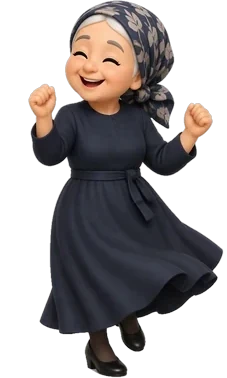
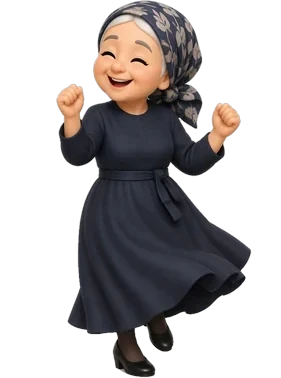
v128: grandma dances real steps too
Claude-Session: https://claude.ai/code/session_01ABvEC9i7oWek9Z9TUcU2qQ

Changed region(s): [[0.1233, 0.0, 0.9868, 1.0], [0.5242, 0.9603, 0.5859, 1.0]]

diff --git a/sw.js b/sw.js
@@ -10,7 +10,7 @@
  * When changing this file, bump CACHE so old caches are cleaned up.
  */
 
-const CACHE = 'dreidel-v127';
+const CACHE = 'dreidel-v128';
 const FALLBACK = './index.html';
 // Each picture is listed once, as .webp. The .png / .jpg twins exist only for a browser that cannot
 // show webp; precaching both made every install download the pictures twice (about 1.2 MB extra).
@@ -19,7 +19,7 @@ const STATIC = [
   './index.html', './manifest.json', './icon-192.png', './icon-512.png', './apple-touch-icon.png',
   './dreidel.webp', './d3-face.webp', './d3-tip.webp', './d3-handle.webp', './bg-table.webp',
   './bg-table-portrait.webp', './coin.webp', './pile.webp', './trivia.json',
-  './dancer.webp', './dancer_big.webp', './hasid_pose1.webp', './hasid_pose2.webp', './hasid_pose3.webp', './hasid_side.webp', './hasid_back.webp', './dancer_boy.webp', './dancer_boy_a.webp', './dancer_boy_c.webp', './dancer_girl_a.webp', './dancer_girl_b.webp', './dancer_grandpa_a.webp', './dancer_grandpa_b.webp', './dancer_boy_side.webp', './dancer_boy_back.webp', './dancer_girl_side.webp', './dancer_girl_back.webp', './dancer_grandpa_side.webp', './dancer_grandpa_back.webp', './dancer_grandma_side.webp', './dancer_grandma_back.webp', './dancer_girl.webp', './dancer_grandpa.webp', './dancer_grandma.webp', './bg-table-nod.webp', './bg-table-portrait-nod.webp', './dancers_old.webp', './cstack1.webp', './cstack2.webp', './cstack3.webp', './cstack4.webp', './cstack5.webp', './cstack6.webp', './cstack7.webp', './cstack8.webp', './cstack9.webp', './cstack10.webp', './cstack11.webp', './cstack12.webp',
+  './dancer.webp', './dancer_big.webp', './hasid_pose1.webp', './hasid_pose2.webp', './hasid_pose3.webp', './hasid_side.webp', './hasid_back.webp', './dancer_boy.webp', './dancer_boy_a.webp', './dancer_boy_c.webp', './dancer_girl_a.webp', './dancer_girl_b.webp', './dancer_grandpa_a.webp', './dancer_grandpa_b.webp', './dancer_grandma_a.webp', './dancer_grandma_b.webp', './dancer_boy_side.webp', './dancer_boy_back.webp', './dancer_girl_side.webp', './dancer_girl_back.webp', './dancer_grandpa_side.webp', './dancer_grandpa_back.webp', './dancer_grandma_side.webp', './dancer_grandma_back.webp', './dancer_girl.webp', './dancer_grandpa.webp', './dancer_grandma.webp', './bg-table-nod.webp', './bg-table-portrait-nod.webp', './dancers_old.webp', './cstack1.webp', './cstack2.webp', './cstack3.webp', './cstack4.webp', './cstack5.webp', './cstack6.webp', './cstack7.webp', './cstack8.webp', './cstack9.webp', './cstack10.webp', './cstack11.webp', './cstack12.webp',
   './trivia-editor.html'
 ];
 

diff --git a/index.html b/index.html
@@ -1060,7 +1060,7 @@ let localStream=null, videoEnabled=false, micEnabled=true;
 const SB_URL='https://cdgqodtbdhsqkvcgcdlm.supabase.co';
 const SB_KEY='sb_publishable_B4HOCQF3IxN_6Ojz1_ctnA_k6JEAR4g';
 const FAM_COLORS=['#f5c842','#3d7aed','#34d399','#f87171','#c084fc','#fb923c','#22d3ee','#f472b6'];
-const APP_VERSION='v127';
+const APP_VERSION='v128';
 document.getElementById('appVersion').textContent=APP_VERSION;
 document.querySelectorAll('.copy-year').forEach(e=>e.textContent=new Date().getFullYear());
 
@@ -3243,7 +3243,7 @@ function danceUI(){const b=document.getElementById('tuneDance');if(b)b.classList
 // ── 🕺 the dancers: the Hasid from the start; the children join when the singing gets going; then the grandparents.
 //    Each moves with the beat in its own way — sways, steps, hops, turns — and the pairs change places every few bars.
 const GUY_POSES=['pose1','pose2','pose3','side','back'].map(n=>{const im=new Image();im.src='hasid_'+n+'.webp';return im});   // (loaded ahead — no flicker)
-const POSES={boy:['a','c'],girl:['a','b'],gpa:['a','b']};          // extra dance poses (front view), beside the original picture
+const POSES={boy:['a','c'],girl:['a','b'],gpa:['a','b'],gma:['a','b']};          // extra dance poses (front view), beside the original picture
 const VIEWS={};for(const [k,n] of [['boy','boy'],['girl','girl'],['gpa','grandpa'],['gma','grandma']]){VIEWS[k]={};
     for(const v of ['front','side','back',...(POSES[k]||[])]){const im=new Image();im.src='dancer_'+n+(v==='front'?'':'_'+v)+'.webp';VIEWS[k][v]=im}}
 const TURNS={boy:{at:2,beats:1},girl:{at:6,beats:1},gpa:{at:9,beats:2},gma:{at:12,beats:2}};    // when each one turns around (in a 16-beat round)
@@ -3306,7 +3306,7 @@ const TURNS={boy:{at:2,beats:1},girl:{at:6,beats:1},gpa:{at:9,beats:2},gma:{at:1
                 }
                 if(view!=='front'){sx=vsx||1;rot*=.5}
                 else if(POSES[k]){                                         // dance steps: the picture we had, a step, another move, the step mirrored
-                    const P=POSES[k],step=k==='gpa'?Math.floor(n/2):n,i=((step%4)+4)%4;
+                    const P=POSES[k],step=(k==='gpa'||k==='gma')?Math.floor(n/2):n,i=((step%4)+4)%4;
                     view=[ 'front',P[0],P[1],P[0]][i];if(i===3)sx=-1;else if(i!==0)sx=1;
                     if(i!==0)rot*=.5}
                 if(f.view!==view){f.view=view;f.el.src=VIEWS[k][view].src}
